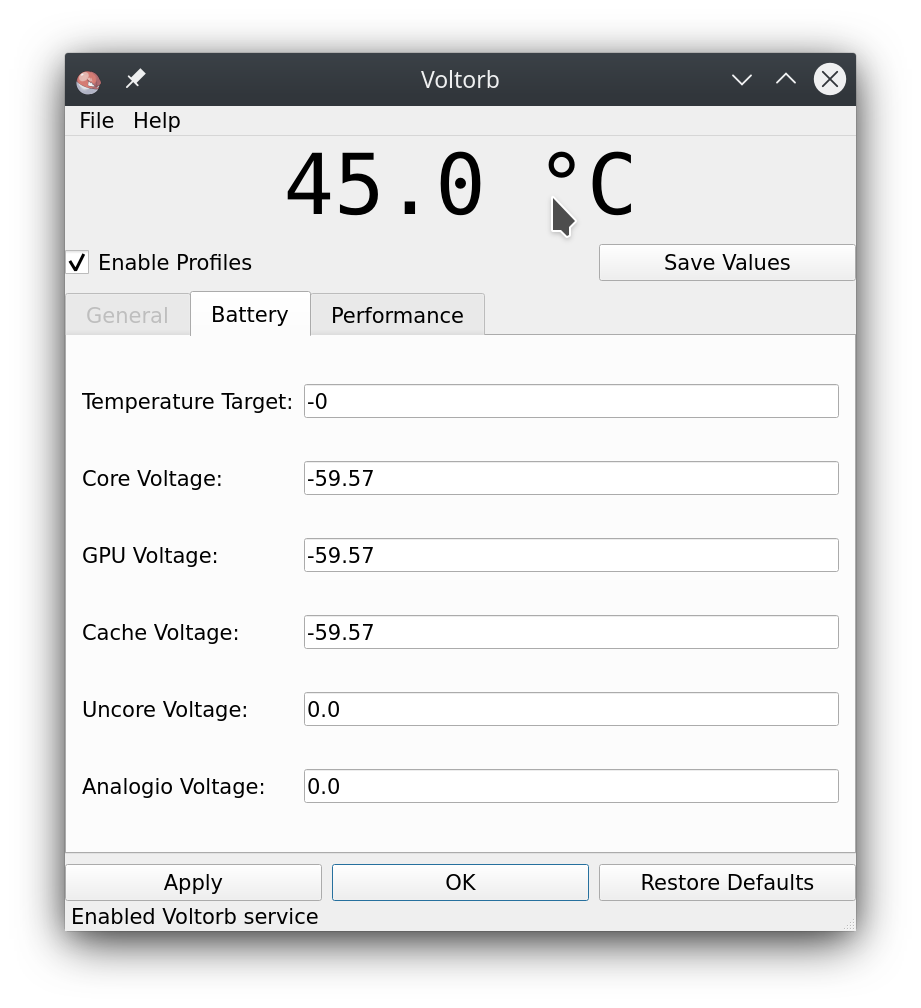
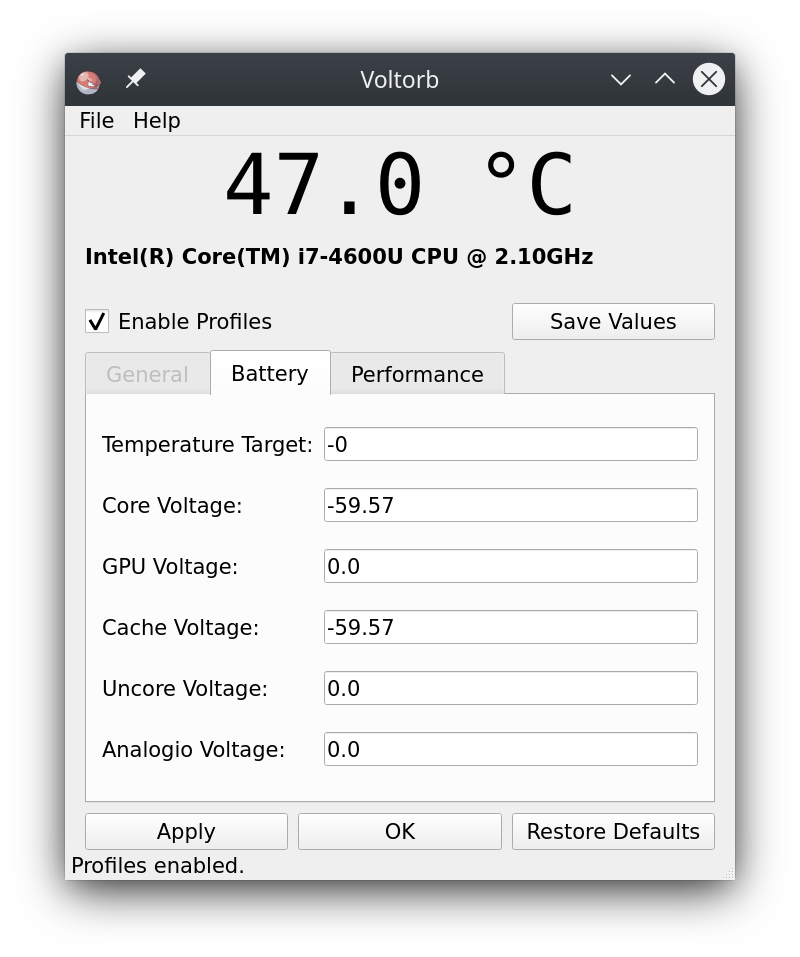
v 0.2

diff --git a/main.py b/main.py
@@ -1,7 +1,7 @@
 #!/usr/bin/env python3
 
 from PyQt5 import QtWidgets,QtGui, uic
-import sys,subprocess,os,threading,json
+import sys,subprocess,os,threading,json,linecache
 
 configFile="/etc/Voltorb/config"
 batteryValuesFile="/etc/Voltorb/battery_values"
@@ -19,7 +19,7 @@ class Ui(QtWidgets.QMainWindow):
     
     
         self.lblTemp=self.findChild(QtWidgets.QLabel,"lblTemp")
-    
+        self.lblCPU=self.findChild(QtWidgets.QLabel,"lblCPU")
     
         self.checkBoxProfile=self.findChild(QtWidgets.QCheckBox,"checkBoxProfile")
         self.btnSave=self.findChild(QtWidgets.QPushButton,"btnSave")
@@ -66,16 +66,34 @@ class Ui(QtWidgets.QMainWindow):
         self.actionAbout.triggered.connect(self.actionAbout_Triggered)
         
         self.setWindowIcon(QtGui.QIcon("/etc/Voltorb/icon.png"))
+        self.lblCPU.setText(self.getCPU())
         
         self.show()
     
-    def notRoot(self):
-        QtWidgets.QMessageBox.warning(self,"Error","This program requires to be run as root!")
-        sys.exit()
+    def checks(self):
+        self.isRoot()
+        self.isUndervoltInstalled()
+        self.isCompatible()
     
-    def noUndervolt(self):
-        QtWidgets.QMessageBox.warning(self,"Error","Cannot find the undervolt binary, is it instaled correctly?")
-        sys.exit()
+    def isRoot(self):
+        if os.geteuid() != 0:
+            QtWidgets.QMessageBox.warning(self,"Error","This program requires to be run as root!")
+            sys.exit()
+    
+    def getCPU(self):
+        return ((linecache.getline("/proc/cpuinfo",5)).split(": "))[1]
+    
+    def isCompatible(self):
+        if (self.getCPU().split(" "))[0]!="Intel(R)":
+            QtWidgets.QMessageBox.warning(self,"Error","This tool is only compatible with Intel CPUs!")
+            sys.exit()        
+    
+    def isUndervoltInstalled(self):
+        try:
+            subprocess.call("undervolt")
+        except OSError:
+            QtWidgets.QMessageBox.warning(self,"Error","Cannot find the undervolt binary, is it instaled correctly?")
+            sys.exit()
 
     def isOnBattery(self):
         out=subprocess.getoutput("acpi -b")
@@ -375,15 +393,7 @@ class Ui(QtWidgets.QMainWindow):
 def main():
     app = QtWidgets.QApplication(sys.argv)
     window = Ui()
-    
-    if os.geteuid() != 0:
-        window.notRoot()
-    
-    try:
-        subprocess.call("undervolt")
-    except OSError:
-        window.noUndervolt()
-    
+    window.checks()
     window.loadValues()
     app.exec_()
 

diff --git a/voltorb_service.py b/voltorb_service.py
@@ -36,7 +36,8 @@ if profilesEnabled():
         applySettings(batteryValuesFile)
     else:
         applySettings(perfValuesFile)
-        
+    
+    print("Voltorb service has started.")
     while True:
         if isOnBattery()!=prevState:
             if isOnBattery()==0:
@@ -51,6 +52,5 @@ if profilesEnabled():
         time.sleep(10)
 
 else:
-    print("Voltorb service started.")
+    print("Voltorb service has started.")
     applySettings(genValuesFile)
-

diff --git a/README.md b/README.md
@@ -8,6 +8,7 @@
 #### Requirements
 - An Intel CPU that is 4th generation and newer(Haswell).
 - PyQt5
+- acpi
 - [undervolt](https://github.com/georgewhewell/undervolt) (The installation script automatically installs undervolt)
 
 #### Installation
@@ -26,3 +27,4 @@ sudo ./uninstall.sh
 - Support for init systems other than systemd
 - Stress test
 - More aesthetic GUI
+
